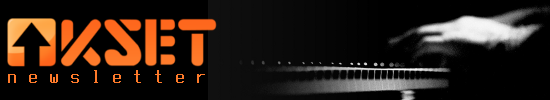
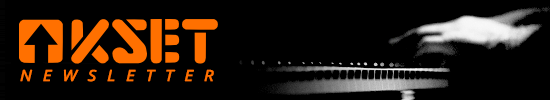
updates to newsletter

Changed region(s): [[0.0, 0.18, 0.4018, 0.84]]

diff --git a/kset/templates/newsletter.html b/kset/templates/newsletter.html
@@ -1,32 +1,35 @@
 <!DOCTYPE html PUBLIC "-//W3C//DTD XHTML 1.0 Transitional//EN" "http://www.w3.org/TR/xhtml1/DTD/xhtml1-transitional.dtd">
-<html style="margin: 0;padding: 0;font-family: &quot;Helvetica Neue&quot;, &quot;Helvetica&quot;, Helvetica, Arial, sans-serif;">
+<html>
 
 {% load fb_versions %}
-<head style="margin: 0;padding: 0;font-family: &quot;Helvetica Neue&quot;, &quot;Helvetica&quot;, Helvetica, Arial, sans-serif;">
+<head style="margin: 0;padding: 0;">
 
-    <meta name="viewport" content="width=device-width" style="margin: 0;padding: 0;font-family: &quot;Helvetica Neue&quot;, &quot;Helvetica&quot;, Helvetica, Arial, sans-serif;">
-    <meta http-equiv="Content-Type" content="text/html; charset=UTF-8" style="margin: 0;padding: 0;font-family: &quot;Helvetica Neue&quot;, &quot;Helvetica&quot;, Helvetica, Arial, sans-serif;">
-    <title style="margin: 0;padding: 0;font-family: &quot;Helvetica Neue&quot;, &quot;Helvetica&quot;, Helvetica, Arial, sans-serif;">KSET.org - Newsletter</title>
-
+    <meta name="viewport" content="width=device-width">
+    <meta http-equiv="Content-Type" content="text/html; charset=UTF-8" >
 </head>
 
-<body bgcolor="#FFFFFF" topmargin="0" leftmargin="0" marginheight="0" marginwidth="0" style="margin: 0;padding: 0;font-family: &quot;Helvetica Neue&quot;, &quot;Helvetica&quot;, Helvetica, Arial, sans-serif;-webkit-font-smoothing: antialiased;-webkit-text-size-adjust: none;height: 100%;color: #282828;width: 100%!important;">
+<body bgcolor="#F5F5F5" topmargin="0" leftmargin="0" marginheight="0" marginwidth="0" style="margin: 0;padding: 0;font-family: &quot;Helvetica Neue&quot;, &quot;Helvetica&quot;, Helvetica, Arial, sans-serif;-webkit-font-smoothing: antialiased;-webkit-text-size-adjust: none;height: 100%;color: #282828;width: 100%!important;">
 
-    <table class="head-wrap" bgcolor="#000000" style="margin: 0;padding: 0;font-family: &quot;Helvetica Neue&quot;, &quot;Helvetica&quot;, Helvetica, Arial, sans-serif;width: 100%;">
+    <table class="head-wrap" bgcolor="#000000" style="margin: 0;padding: 0;width: 100%; border-collapse: collapse;">
+        <tr>
+
+            <td class="header container" align="" style="margin: 0 auto!important;padding: 0;display: block!important;max-width: 600px!important;clear: both!important; color: #fff !important;">
+                <div class="content" style="margin: 0 auto;padding: 15px 15px 0;max-width: 600px;display: block; font-size: 12px; text-align: center;">
+                Newsletter Vam se dobro ne prikazuje? Uf :/ Posjetite <a style="color: #F1783F;" href="http://kset.org/newsletter/">www.kset.org/newsletter/</a>
+                </div>
+            </td>
+        </tr>
         <tr style="margin: 0;padding: 0;font-family: &quot;Helvetica Neue&quot;, &quot;Helvetica&quot;, Helvetica, Arial, sans-serif;">
-            <td style="margin: 0;padding: 0;font-family: &quot;Helvetica Neue&quot;, &quot;Helvetica&quot;, Helvetica, Arial, sans-serif;"></td>
-            <td class="header container" align="" style="margin: 0 auto!important;padding: 0;font-family: &quot;Helvetica Neue&quot;, &quot;Helvetica&quot;, Helvetica, Arial, sans-serif;display: block!important;max-width: 600px!important;clear: both!important;">
+
+            <td class="header container" align="" style="margin: 0 auto!important;padding: 0;display: block!important;max-width: 600px!important;clear: both!important;">
 
                 <div class="content" style="margin: 0 auto;padding: 15px;font-family: &quot;Helvetica Neue&quot;, &quot;Helvetica&quot;, Helvetica, Arial, sans-serif;max-width: 600px;display: block;">
                     <table bgcolor="#000000" style="width: 100%;margin: 0;padding: 0;font-family: &quot;Helvetica Neue&quot;, &quot;Helvetica&quot;, Helvetica, Arial, sans-serif;">
                         <tr style="margin: 0;padding: 0;font-family: &quot;Helvetica Neue&quot;, &quot;Helvetica&quot;, Helvetica, Arial, sans-serif;">
                             <td style="margin: 0;padding: 0;font-family: &quot;Helvetica Neue&quot;, &quot;Helvetica&quot;, Helvetica, Arial, sans-serif;">
                                 <a href="http://kset.org" style="margin: 0;padding: 0;font-family: &quot;Helvetica Neue&quot;, &quot;Helvetica&quot;, Helvetica, Arial, sans-serif;color: #F1783F;text-decoration: none;">
-                                    <img src="https://www.kset.org{{STATIC_URL}}images/kset-logo.png" style="margin: 0;padding: 0;font-family: &quot;Helvetica Neue&quot;, &quot;Helvetica&quot;, Helvetica, Arial, sans-serif;max-width: 100%;">
+                                    <img src="https://www.kset.org{{STATIC_URL}}images/newsletter/header.png" style="margin: 0;padding: 0;font-family: &quot;Helvetica Neue&quot;, &quot;Helvetica&quot;, Helvetica, Arial, sans-serif;max-width: 100%;">
                                 </a>
-                            </td>
-                            <td align="right" style="margin: 0;padding: 0;font-family: &quot;Helvetica Neue&quot;, &quot;Helvetica&quot;, Helvetica, Arial, sans-serif;">
-                                <img height="60" src="https://www.kset.org{{ STATIC_URL }}frontend/images/headers/{{ header_bg }}" id="header-pic" class="header-pic" style="margin: 0;padding: 0;font-family: &quot;Helvetica Neue&quot;, &quot;Helvetica&quot;, Helvetica, Arial, sans-serif;max-width: 100%;">
                             </td>
                         </tr>
                     </table>
@@ -36,16 +39,15 @@
         </tr>
     </table>
 
-    <table class="body-wrap" bgcolor="" style="margin: 0;padding: 0;font-family: &quot;Helvetica Neue&quot;, &quot;Helvetica&quot;, Helvetica, Arial, sans-serif;width: 100%;">
+    <table class="body-wrap" bgcolor="#F5F5F5" style="margin: 0;padding: 0;font-family: &quot;Helvetica Neue&quot;, &quot;Helvetica&quot;, Helvetica, Arial, sans-serif;width: 100%;">
         <tr style="margin: 0;padding: 0;font-family: &quot;Helvetica Neue&quot;, &quot;Helvetica&quot;, Helvetica, Arial, sans-serif;">
             <td style="margin: 0;padding: 0;font-family: &quot;Helvetica Neue&quot;, &quot;Helvetica&quot;, Helvetica, Arial, sans-serif;"></td>
-            <td class="container" align="" bgcolor="#FFFFFF" style="margin: 0 auto!important;padding: 0;font-family: &quot;Helvetica Neue&quot;, &quot;Helvetica&quot;, Helvetica, Arial, sans-serif;display: block!important;max-width: 600px!important;clear: both!important;">
+            <td class="container" align="" bgcolor="#F5F5F5" style="margin: 0 auto!important;padding: 0;font-family: &quot;Helvetica Neue&quot;, &quot;Helvetica&quot;, Helvetica, Arial, sans-serif;display: block!important;max-width: 600px!important;clear: both!important;">
 
                 <div class="content" style="margin: 0 auto;padding: 15px;font-family: &quot;Helvetica Neue&quot;, &quot;Helvetica&quot;, Helvetica, Arial, sans-serif;max-width: 600px;display: block;">
                     <table style="margin: 0;padding: 0;font-family: &quot;Helvetica Neue&quot;, &quot;Helvetica&quot;, Helvetica, Arial, sans-serif;width: 100%;">
                         <tr style="margin: 0;padding: 0;font-family: &quot;Helvetica Neue&quot;, &quot;Helvetica&quot;, Helvetica, Arial, sans-serif;">
                             <td style="margin: 0;padding: 0;font-family: &quot;Helvetica Neue&quot;, &quot;Helvetica&quot;, Helvetica, Arial, sans-serif;">
-                                <h1 style="margin: 0;padding: 0;font-family: &quot;HelveticaNeue-Light&quot;, &quot;Helvetica Neue Light&quot;, &quot;Helvetica Neue&quot;, Helvetica, Arial, &quot;Lucida Grande&quot;, sans-serif;line-height: 1.1;margin-bottom: 15px;color: #000;font-weight: bold;font-size: 44px;">KSET.org - Newsletter</h1>
                                 <p class="lead" style="margin: 0;padding: 0;font-family: &quot;Helvetica Neue&quot;, &quot;Helvetica&quot;, Helvetica, Arial, sans-serif;margin-bottom: 10px;font-weight: normal;font-size: 17px;line-height: 1.6;">Program kluba od <b style="margin: 0;padding: 0;font-family: &quot;Helvetica Neue&quot;, &quot;Helvetica&quot;, Helvetica, Arial, sans-serif;">{{ from_date|date:"d.m.Y." }}</b> do <b style="margin: 0;padding: 0;font-family: &quot;Helvetica Neue&quot;, &quot;Helvetica&quot;, Helvetica, Arial, sans-serif;">{{ till_date|date:"d.m.Y." }}</b></p>
 
                             </td>
@@ -56,85 +58,40 @@
 
     {% for event in events %}
 
-                <div class="content" style="margin: 0 auto;padding: 15px;font-family: &quot;Helvetica Neue&quot;, &quot;Helvetica&quot;, Helvetica, Arial, sans-serif;max-width: 600px;display: block;">
-                    <table bgcolor="" style="margin: 0;padding: 0;font-family: &quot;Helvetica Neue&quot;, &quot;Helvetica&quot;, Helvetica, Arial, sans-serif;width: 100%;">
-                        <tr style="margin: 0;padding: 0;font-family: &quot;Helvetica Neue&quot;, &quot;Helvetica&quot;, Helvetica, Arial, sans-serif;">
-                            <td class="small" width="20%" style="vertical-align: top;padding-right: 10px;margin: 0;padding: 0;font-family: &quot;Helvetica Neue&quot;, &quot;Helvetica&quot;, Helvetica, Arial, sans-serif;">
+                <div class="content" style="margin: 0 auto 20px;padding: 15px;max-width: 600px;display: block; background: #ffffff; border: 1px solid #e5e5e5; box-shadow: 0 1px 1px -1px rgba(0,0,0,0.6)">
+                    <table style="width: 100%;">
+                        <tr>
+                            <td width="20%" style="vertical-align: top;padding-right: 10px;margin: 0;padding: 0;font-family: &quot;Helvetica Neue&quot;, &quot;Helvetica&quot;, Helvetica, Arial, sans-serif;">
                                 {% if event.thumb %}
-                                    <a href="https://www.kset.org{% url 'event_slug' slug=event.slug %}" style="margin: 0;padding: 0;font-family: &quot;Helvetica Neue&quot;, &quot;Helvetica&quot;, Helvetica, Arial, sans-serif;color: #F1783F;text-decoration: none;"><img src="https://www.kset.org{% version event.thumb 'medium' %}" border="0" float="left" style="margin: 0;padding: 0;font-family: &quot;Helvetica Neue&quot;, &quot;Helvetica&quot;, Helvetica, Arial, sans-serif;max-width: 100%;"></a>
+                                    <a href="https://www.kset.org{% url 'event_slug' slug=event.slug %}" style="color: #F1783F;text-decoration: none;"><img src="https://www.kset.org{% version event.thumb 'medium' %}" border="0" float="left" style="margin: 0;padding: 0;max-width: 100%;"></a>
                                 {% endif %}
                             </td>
-                            <td style="margin: 0;padding: 0;font-family: &quot;Helvetica Neue&quot;, &quot;Helvetica&quot;, Helvetica, Arial, sans-serif;">
-                                <h4 style="margin: 0;padding: 0;font-family: &quot;HelveticaNeue-Light&quot;, &quot;Helvetica Neue Light&quot;, &quot;Helvetica Neue&quot;, Helvetica, Arial, &quot;Lucida Grande&quot;, sans-serif;line-height: 1.1;margin-bottom: 15px;color: #F1783F;font-weight: bold;font-size: 23px;"><a href="https://www.kset.org{% url 'event_slug' slug=event.slug %}" style="margin: 0;padding: 0;font-family: &quot;Helvetica Neue&quot;, &quot;Helvetica&quot;, Helvetica, Arial, sans-serif;color: #F1783F;text-decoration: none;">{{ event.title }}</a>
+                            <td>
+                                <h4 style="margin: 0;padding: 0;font-family: &quot;HelveticaNeue-Light&quot;, &quot;Helvetica Neue Light&quot;, &quot;Helvetica Neue&quot;, Helvetica, Arial, &quot;Lucida Grande&quot;, sans-serif;line-height: 1.1;margin-bottom: 15px;color: #F1783F;font-weight: bold;font-size: 23px;"><a href="https://www.kset.org{% url 'event_slug' slug=event.slug %}" style="color: #F1783F;text-decoration: none;">{{ event.title }}</a>
                                 </h4>
-                                <h4 style="margin: 0;padding: 0;font-family: &quot;HelveticaNeue-Light&quot;, &quot;Helvetica Neue Light&quot;, &quot;Helvetica Neue&quot;, Helvetica, Arial, &quot;Lucida Grande&quot;, sans-serif;line-height: 1.1;margin-bottom: 15px;color: #F1783F;font-weight: bold;font-size: 23px;"><small style="margin: 0;padding: 0;font-family: &quot;Helvetica Neue&quot;, &quot;Helvetica&quot;, Helvetica, Arial, sans-serif;font-size: 60%;color: #181818;line-height: 0;text-transform: none;"><strong style="margin: 0;padding: 0;font-family: &quot;Helvetica Neue&quot;, &quot;Helvetica&quot;, Helvetica, Arial, sans-serif;">{{ event.date|date:"l, d.m.Y." }}</strong></small>
+                                <h4><small style="margin: 0;padding: 0;font-family: &quot;Helvetica Neue&quot;, &quot;Helvetica&quot;, Helvetica, Arial, sans-serif;font-size: 14px;color: #181818;line-height: 0;text-transform: none;"><strong style="margin: 0;padding: 0;font-family: &quot;Helvetica Neue&quot;, &quot;Helvetica&quot;, Helvetica, Arial, sans-serif;">{{ event.date|date:"l, d.m.Y." }}</strong></small>
                                 </h4>
 
-                                <div style="margin: 0;padding: 0;font-family: &quot;Helvetica Neue&quot;, &quot;Helvetica&quot;, Helvetica, Arial, sans-serif;">
-                                    <p style="margin: 0;padding: 0;font-family: &quot;Helvetica Neue&quot;, &quot;Helvetica&quot;, Helvetica, Arial, sans-serif;margin-bottom: 10px;font-weight: normal;font-size: 14px;line-height: 1.6;">{{ event.description|safe }}</p>
+                                <div style="font-family: &quot;Helvetica Neue&quot;, &quot;Helvetica&quot;, Helvetica, Arial, sans-serif;">
+                                    {{ event.description|safe }}
                                     {% if not event.description %}
-                                        <p style="margin: 0;padding: 0;font-family: &quot;Helvetica Neue&quot;, &quot;Helvetica&quot;, Helvetica, Arial, sans-serif;margin-bottom: 10px;font-weight: normal;font-size: 14px;line-height: 1.6;">{{ event.content|safe }}</p>
+                                        {{ event.content|safe }}
                                     {% endif %}
                                 </div>
-                                <a class="btn" href="https://www.kset.org{% url 'event_slug' slug=event.slug %}" style="margin: 0;padding: 10px 16px;font-family: &quot;Helvetica Neue&quot;, &quot;Helvetica&quot;, Helvetica, Arial, sans-serif;color: #FFF;text-decoration: none;background-color: #F1783F;font-weight: bold;margin-right: 10px;text-align: center;cursor: pointer;display: inline-block;">Opširnije &raquo;</a>
+                                <a class="btn" href="https://www.kset.org{% url 'event_slug' slug=event.slug %}" style="padding: 10px 16px;color: #FFF;text-decoration: none;background-color: #F1783F;font-weight: bold;margin-right: 10px;text-align: center;cursor: pointer;display: inline-block;">Opširnije &raquo;</a>
                             </td>
                         </tr>
                     </table>
                 </div>
 
     {% endfor %}
-
-                <div class="content" style="margin: 0 auto;padding: 15px;font-family: &quot;Helvetica Neue&quot;, &quot;Helvetica&quot;, Helvetica, Arial, sans-serif;max-width: 600px;display: block;">
-                    <table bgcolor="" style="margin: 0;padding: 0;font-family: &quot;Helvetica Neue&quot;, &quot;Helvetica&quot;, Helvetica, Arial, sans-serif;width: 100%;">
-                        <tr style="margin: 0;padding: 0;font-family: &quot;Helvetica Neue&quot;, &quot;Helvetica&quot;, Helvetica, Arial, sans-serif;">
-                            <td style="margin: 0;padding: 0;font-family: &quot;Helvetica Neue&quot;, &quot;Helvetica&quot;, Helvetica, Arial, sans-serif;">
-
-                                <table bgcolor="" class="social" width="100%" style="margin: 0;padding: 0;font-family: &quot;Helvetica Neue&quot;, &quot;Helvetica&quot;, Helvetica, Arial, sans-serif;background-color: #ebebeb;width: 100%;">
-                                    <tr style="margin: 0;padding: 0;font-family: &quot;Helvetica Neue&quot;, &quot;Helvetica&quot;, Helvetica, Arial, sans-serif;">
-                                        <td style="margin: 0;padding: 0;font-family: &quot;Helvetica Neue&quot;, &quot;Helvetica&quot;, Helvetica, Arial, sans-serif;">
-
-                                            <div class="column" style="margin: 0;padding: 0;font-family: &quot;Helvetica Neue&quot;, &quot;Helvetica&quot;, Helvetica, Arial, sans-serif;width: 280px;float: left;min-width: 279px;">
-                                                <table bgcolor="" cellpadding="" align="left" style="margin: 0;padding: 0;font-family: &quot;Helvetica Neue&quot;, &quot;Helvetica&quot;, Helvetica, Arial, sans-serif;width: 100%;">
-                                                    <tr style="margin: 0;padding: 0;font-family: &quot;Helvetica Neue&quot;, &quot;Helvetica&quot;, Helvetica, Arial, sans-serif;">
-                                                        <td style="margin: 0;padding: 15px;font-family: &quot;Helvetica Neue&quot;, &quot;Helvetica&quot;, Helvetica, Arial, sans-serif;">
-                                                            <h5 class="" style="margin: 0;padding: 0;font-family: &quot;HelveticaNeue-Light&quot;, &quot;Helvetica Neue Light&quot;, &quot;Helvetica Neue&quot;, Helvetica, Arial, &quot;Lucida Grande&quot;, sans-serif;line-height: 1.1;margin-bottom: 15px;color: #000;font-weight: 900;font-size: 17px;">Povežite se:</h5>
-                                                            <p class="" style="margin: 0;padding: 0;font-family: &quot;Helvetica Neue&quot;, &quot;Helvetica&quot;, Helvetica, Arial, sans-serif;margin-bottom: 10px;font-weight: normal;font-size: 14px;line-height: 1.6;"><a href="https://www.facebook.com/KSETZg" class="soc-btn fb" style="margin: 0;padding: 3px 7px;font-family: &quot;Helvetica Neue&quot;, &quot;Helvetica&quot;, Helvetica, Arial, sans-serif;color: #FFF;text-decoration: none;font-size: 12px;margin-bottom: 10px;font-weight: bold;display: block;text-align: center;background-color: #3B5998!important;">Facebook</a>  <a href="https://twitter.com/KSETinfo" class="soc-btn tw" style="margin: 0;padding: 3px 7px;font-family: &quot;Helvetica Neue&quot;, &quot;Helvetica&quot;, Helvetica, Arial, sans-serif;color: #FFF;text-decoration: none;font-size: 12px;margin-bottom: 10px;font-weight: bold;display: block;text-align: center;background-color: #1daced!important;">Twitter</a>
-                                                            </p>
-                                                        </td>
-                                                    </tr>
-                                                </table>
-                                            </div>
-
-                                            <div class="column" style="margin: 0;padding: 0;font-family: &quot;Helvetica Neue&quot;, &quot;Helvetica&quot;, Helvetica, Arial, sans-serif;width: 280px;float: left;min-width: 279px;">
-                                                <table bgcolor="" cellpadding="" align="left" style="margin: 0;padding: 0;font-family: &quot;Helvetica Neue&quot;, &quot;Helvetica&quot;, Helvetica, Arial, sans-serif;width: 100%;">
-                                                    <tr style="margin: 0;padding: 0;font-family: &quot;Helvetica Neue&quot;, &quot;Helvetica&quot;, Helvetica, Arial, sans-serif;">
-                                                        <td style="margin: 0;padding: 15px;font-family: &quot;Helvetica Neue&quot;, &quot;Helvetica&quot;, Helvetica, Arial, sans-serif;">
-                                                            <h5 class="" style="margin: 0;padding: 0;font-family: &quot;HelveticaNeue-Light&quot;, &quot;Helvetica Neue Light&quot;, &quot;Helvetica Neue&quot;, Helvetica, Arial, &quot;Lucida Grande&quot;, sans-serif;line-height: 1.1;margin-bottom: 15px;color: #000;font-weight: 900;font-size: 17px;">Više informacija:</h5>
-                                                            <p style="margin: 0;padding: 0;font-family: &quot;Helvetica Neue&quot;, &quot;Helvetica&quot;, Helvetica, Arial, sans-serif;margin-bottom: 10px;font-weight: normal;font-size: 14px;line-height: 1.6;">
-                                                                <strong style="margin: 0;padding: 0;font-family: &quot;Helvetica Neue&quot;, &quot;Helvetica&quot;, Helvetica, Arial, sans-serif;">
-                                                                    <a href="http://kset.org" style="margin: 0;padding: 0;font-family: &quot;Helvetica Neue&quot;, &quot;Helvetica&quot;, Helvetica, Arial, sans-serif;color: #F1783F;text-decoration: none;">
-                                                                        Kset.org
-                                                                    </a>
-                                                                </strong>
-                                                            </p>
-                                                        </td>
-                                                    </tr>
-                                                </table>
-                                            </div>
-                                            <div class="clear" style="margin: 0;padding: 0;font-family: &quot;Helvetica Neue&quot;, &quot;Helvetica&quot;, Helvetica, Arial, sans-serif;display: block;clear: both;"></div>
-                                        </td>
-                                    </tr>
-                                </table>
-                            </td>
-                        </tr>
-                    </table>
-                </div>
+                <tr>
+                  <td colspan="2" style="background-color:#F1783F; padding: 20px;border-color:#F1783F" align="center" valign="top">
+                    <a style="font-size:14px; font-weight: bold; color:#ffffff; line-height:100%; font-family:verdana; text-decoration: none;">Klub Studenata ElektroTehnike</a>
+                  </td>
+                </tr>
             </td>
-            <td style="margin: 0;padding: 0;font-family: &quot;Helvetica Neue&quot;, &quot;Helvetica&quot;, Helvetica, Arial, sans-serif;"></td>
         </tr>
-    </table>
-
-    <table class="footer-wrap" style="margin: 0;padding: 0;font-family: &quot;Helvetica Neue&quot;, &quot;Helvetica&quot;, Helvetica, Arial, sans-serif;width: 100%;clear: both!important;">
     </table>
 </body>
 
